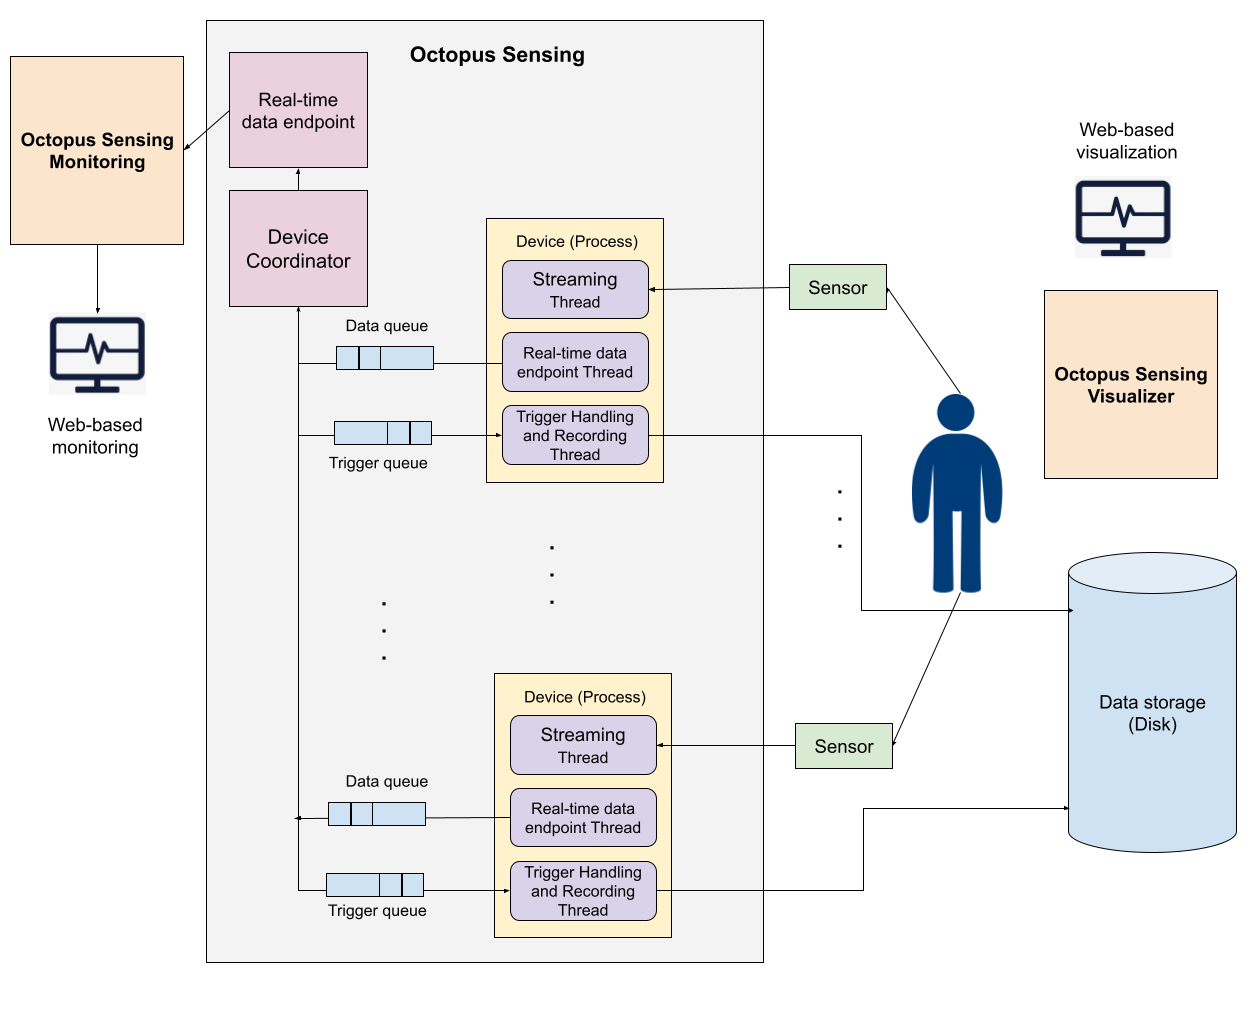
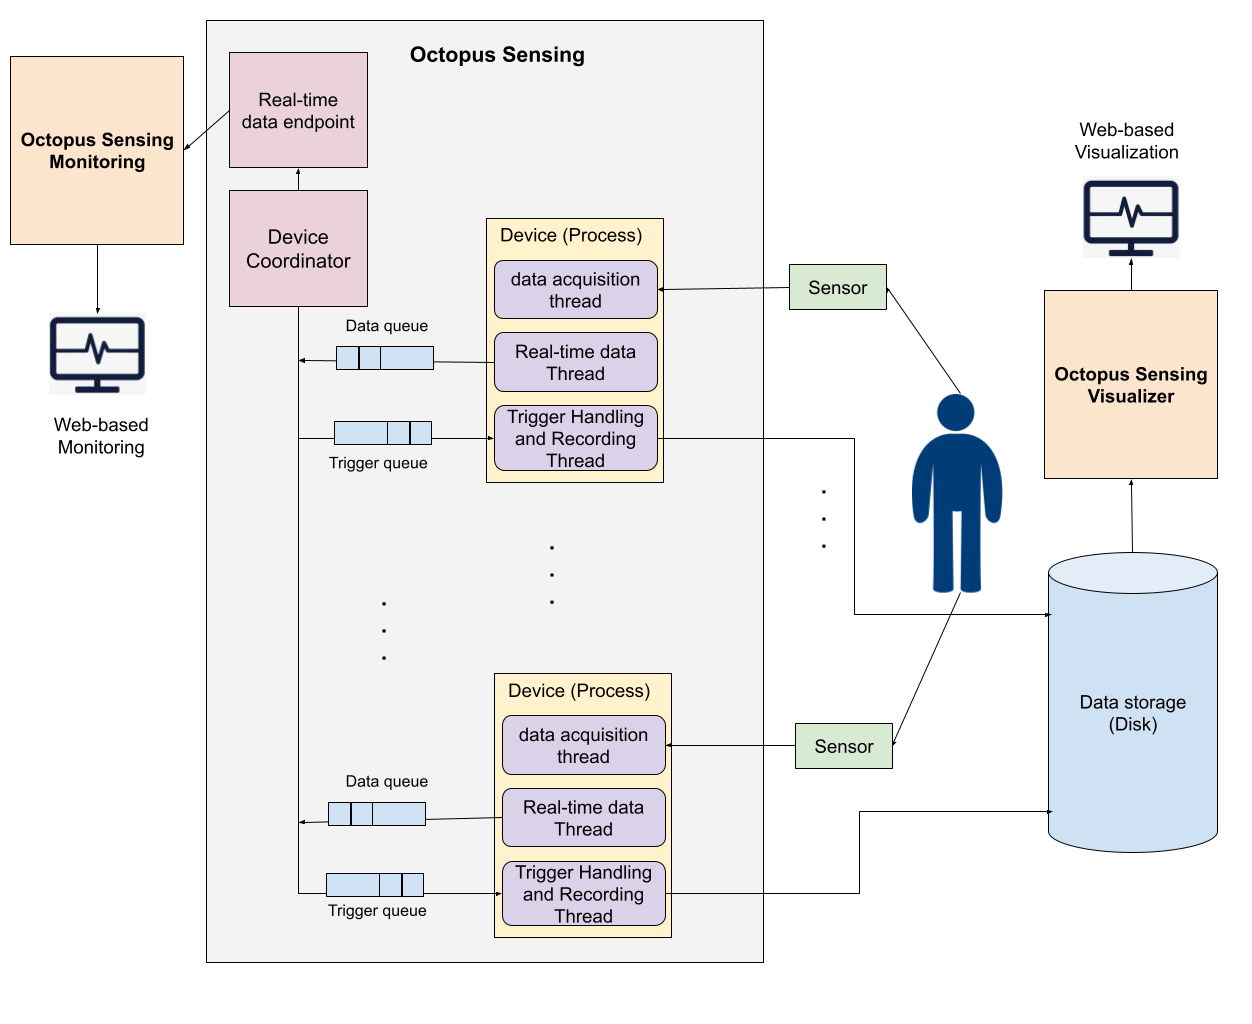
Fixing the overview image and paper writing

diff --git a/paper/paper.md b/paper/paper.md
@@ -61,14 +61,14 @@ The main features of `Octopus Sensing` are listed as follows:
 * Provides offline visualization of data from multiple sources simultaneously.
 
 # Methodology
-Octopus Sensing synchronizes data recording by using `multiprocessing` in Python. It creates a message queue and a process with three threads for every device by creating the device's instance. The main thread handles the message queue. One thread is responsible for data streaming and reacording, and the other thread listens on a queue and when received a request, returns the last three second of data from a buffer. This data can be used in real-time monitoring, or real-time processing and creating real-time feedbacks.  The `Device Coordinator` sends different triggers such as the start of recording or end of recording to different devices by putting the message in all devices' queue. The `Device Coordinator` also sends the trigger over the network for devices that are not embedded in the Octopus Sensing. 
+Octopus Sensing synchronizes data recording by using `multiprocessing` in Python. By initiating an instance of a device, Octopus Sensing creates a process for the device. Each device's process has three threads: data acquisition thread, trigger handling and data recording thread, and real-time data thread. The data acquisition thread is responsible for acquiring data from a sensor. The trigger handling and data recording thread handles trigger messages through a message queue for synchronous data recording. It also records data in a file or files. The real-time data thread listens on a queue and returns the last three seconds of data from a buffer when receiving a request. This data is being used in real-time monitoring and can be used for real-time processing and creating real-time feedback in the future. The `Device Coordinator` sends different triggers such as the start of recording or end of recording to different devices by putting the message in all devices' trigger queues. The `Device Coordinator` also sends the trigger over the network for devices that are not embedded in the Octopus Sensing. The following image shows the overall view of the main components of the Octopus Sensing and their relations.
 <p align="center">
   <img src="https://github.com/octopus-sensing/octopus-sensing/blob/paper-review/docs/_static/OCS-diagram.png" alt="Ovrall view of Octopus Sensing">
 </p>
  
 # Research perspective
  
-We have used `Octopus Sensing` to design several human emotion recognition experiments. We designed the experiments and recorded facial video, brain activity, and physiological signals using `Octopus Sensing` in a watching video task to recognize emotion [@Saffaryazdi2021]. This scenario which is common in physiological emotion recognition studies has been included in the repository as an example and explained in the tutorial. In another research study, we collected multimodal data in a face-to-face conversation task to analyze human emotional responses [@Saffaryazdi2021conv].
+We used `Octopus Sensing` to design several human emotion recognition experiments. We designed the experiments and recorded facial video, brain activity, and physiological signals using `Octopus Sensing` in a watching video task to recognize emotion [@Saffaryazdi2021]. This scenario which is common in physiological emotion recognition studies has been included in the repository as an example and explained in the tutorial. In another research study, we collected multimodal data in a face-to-face conversation task to analyze human emotional responses [@Saffaryazdi2021conv].
  
 This tool can be used to build real-time data processing systems to recognize emotions, stress, cognitive load, or analyze human behavior. Our final goal is to extend its capabilities to provide real-time emotion recognition using multimodal data. Furthermore, we plan to integrate it with `Psychopy` in the future and combine multimodal data collection and monitoring with `Psychopy` features when designing scenarios. Additionally, we plan to support LSL in the future. By supporting LSL, other applications that already support LSL could work with Octopus Sensing.
  
